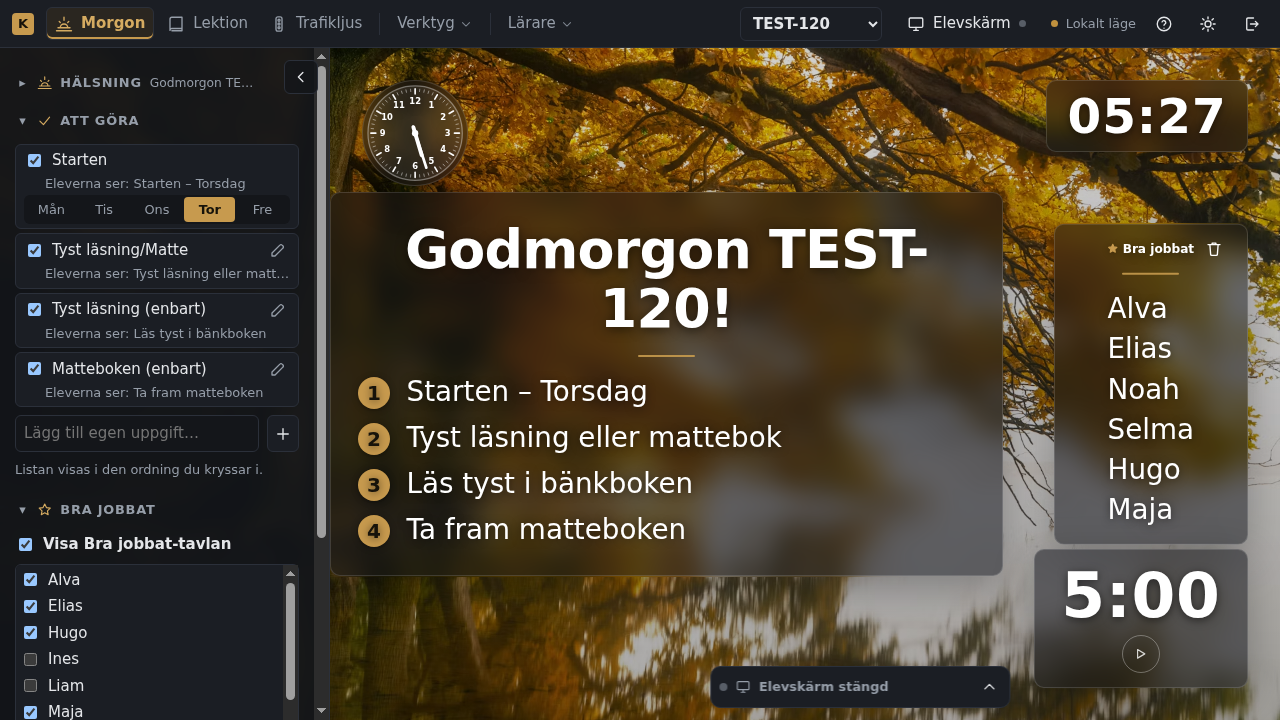
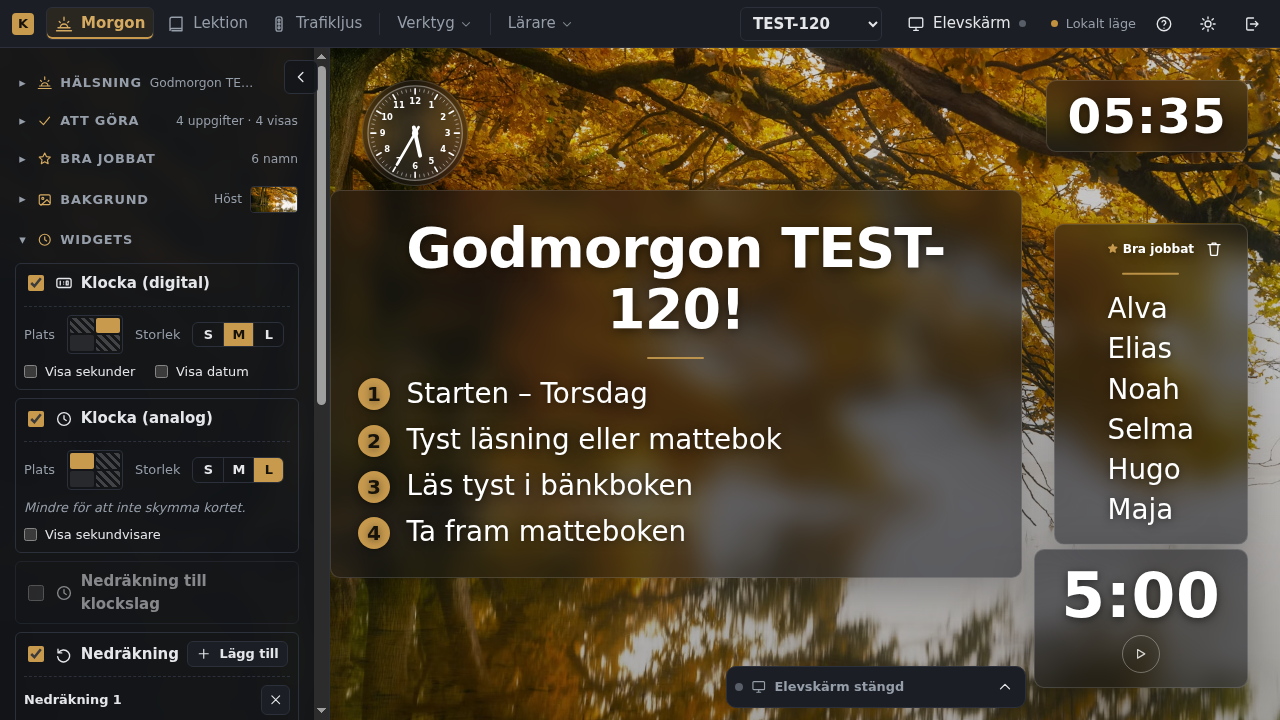
issue #120: kortet och Bra jobbat är hårda hinder för dockans flytt
En kandidatplats (vänster om widgeten / ovanför den) som skymmer kortet eller
Bra jobbat-tavlan ryms inte. Ryms ingen står dockan kvar och widget-panelen
visar hinten — hellre skymd widget i lärarvyn än skymt kort. data-dock-soft →
data-dock-block. Nya efter-bilder 1280/1920, utfälld och hopfälld.

diff --git a/js/lib/dock.js b/js/lib/dock.js
@@ -4,19 +4,19 @@
  * Elevskärmspanelen (js/ui/student-panel.js) ligger fast nere till höger i
  * lärarvyn — ovanpå allt. Element som inte får skymmas (Morgonskärmens
  * hörnwidgets) märks med `data-dock-avoid="<id>"`; skymmer dockan något av
- * dem viker den undan — åt vänster bredvid widgeten eller upp ovanför den,
- * det som skymmer minst av det som märkts `data-dock-soft` (kortet, Bra
- * jobbat-tavlan). Den går aldrig in över `data-dock-wall` (lärarpanelen) och
- * aldrig upp i verktygsraden. Ingenting annat flyttas, så lärarens
- * förhandsvisning och elevskärmen ritar fortfarande exakt samma sak.
+ * dem viker den undan — åt vänster bredvid widgeten eller upp ovanför den.
+ * En sådan plats får aldrig skymma det som märkts `data-dock-block` (kortet,
+ * Bra jobbat-tavlan), gå in över `data-dock-wall` (lärarpanelen) eller upp i
+ * verktygsraden. Ingenting annat flyttas, så lärarens förhandsvisning och
+ * elevskärmen ritar fortfarande exakt samma sak.
  *
- * Ryms dockan ingenstans (liten skärm, widgets även bredvid och ovanför)
- * står den kvar, och de skymda id:na publiceras så att panelen kan säga det
- * (DOCK_COVERED_TEXT).
+ * Ryms dockan ingenstans står den kvar på sin vanliga plats — hellre en
+ * skymd widget i lärarvyn (eleverna ser den fullt) än ett skymt kort — och
+ * de skymda id:na publiceras så att panelen kan säga det (DOCK_COVERED_TEXT).
  *
- *   el.setAttribute(DOCK_AVOID_ATTR, widgetId);  // märk: får inte skymmas
- *   el.setAttribute(DOCK_SOFT_ATTR, "");          // märk: skyms helst inte
- *   el.setAttribute(DOCK_WALL_ATTR, "");          // märk: dockan går aldrig in över (vänster gräns)
+ *   el.setAttribute(DOCK_AVOID_ATTR, widgetId);  // märk: dockan viker undan
+ *   el.setAttribute(DOCK_BLOCK_ATTR, "");         // märk: dockan flyttar aldrig in över
+ *   el.setAttribute(DOCK_WALL_ATTR, "");          // märk: vänster gräns (lärarpanelen)
  *   requestDockLayout();                          // efter varje flytt/ändring
  *   const off = watchDockCovered((ids) => …);     // skymda just nu
  *
@@ -24,7 +24,7 @@
  */
 
 export const DOCK_AVOID_ATTR = "data-dock-avoid";
-export const DOCK_SOFT_ATTR = "data-dock-soft";
+export const DOCK_BLOCK_ATTR = "data-dock-block";
 export const DOCK_WALL_ATTR = "data-dock-wall";
 export const DOCK_COVERED_TEXT = "Delvis dold av Elevskärm-panelen här — syns fullt på elevskärmen.";
 
@@ -60,16 +60,13 @@ export function watchDockCovered(cb) {
 }
 
 const overlaps = (a, b) => a.left < b.right && b.left < a.right && a.top < b.bottom && b.top < a.bottom;
-const area = (a, b) =>
-  Math.max(0, Math.min(a.right, b.right) - Math.max(a.left, b.left)) *
-  Math.max(0, Math.min(a.bottom, b.bottom) - Math.max(a.top, b.top));
 
 /**
  * Var dockan ska stå för att inte skymma något i `avoid`.
  *
  *   dock   = dockans rektangel på sin vanliga plats (nere till höger)
- *   avoid  = rektanglar som INTE får skymmas (widgets)
- *   soft   = rektanglar som helst inte skyms (kortet, Bra jobbat)
+ *   avoid  = rektanglar dockan viker undan för (widgets)
+ *   block  = rektanglar en flyttad docka aldrig får skymma (kortet, Bra jobbat)
  *   minTop / minLeft = gränser dockan inte går förbi (verktygsraden, lärarpanelen)
  *   gap    = luft mellan dockan och det den viker undan för
  *
@@ -77,29 +74,32 @@ const area = (a, b) =>
  *   vänster, dy ≤ 0 = upp); covered = index i `avoid` som dockan skymmer där
  *   den hamnar (tom när den kunde vika undan).
  *
- * Skymmer dockan inget står den kvar — då ändras ingenting. Annars prövas två
- * platser: rakt UPP ovanför widgetarna och åt VÄNSTER bredvid dem (stegvis
- * förbi varje widget den skulle krocka med). Den som skymmer minst av `soft`
- * vinner; lika → vänster, så dockan står kvar längs nederkanten. Ryms ingen
- * står den kvar och de skymda rapporteras.
+ * Skymmer dockan ingen widget står den kvar — då ändras ingenting (även om
+ * den på sin vanliga plats ligger över kortet/tavlan, som förut). Annars
+ * prövas två platser: åt VÄNSTER bredvid widgetarna och rakt UPP ovanför dem
+ * (stegvis förbi varje widget den skulle krocka med). En plats som skymmer
+ * något i `block` eller går förbi gränserna ryms inte. Vänster vinner om båda
+ * ryms (dockan står kvar längs nederkanten); ryms ingen står den kvar och de
+ * skymda rapporteras.
  */
-export function dockPlace(dock, { avoid = [], soft = [], minTop = 0, minLeft = 0, gap = 8 } = {}) {
+export function dockPlace(dock, { avoid = [], block = [], minTop = 0, minLeft = 0, gap = 8 } = {}) {
   const hard = avoid.filter(Boolean);
-  const pref = soft.filter(Boolean);
+  const walls = block.filter(Boolean);
   const hits = (r) => hard.map((a, i) => (overlaps(r, a) ? i : -1)).filter((i) => i >= 0);
   const at = (dx, dy) => ({ left: dock.left + dx, right: dock.right + dx, top: dock.top + dy, bottom: dock.bottom + dy });
 
   const first = hits(dock);
   if (!first.length) return { dx: 0, dy: 0, covered: [] };
 
-  // Flytta längs en axel tills inget krockar (eller gränsen nås). → px eller null
+  // Flytta längs en axel tills ingen widget krockar. → px, eller null om
+  // platsen skymmer kortet/tavlan eller går förbi gränserna.
   function slide(axis) {
     let d = 0;
     for (let step = 0; step <= hard.length; step++) {
       const r = axis === "x" ? at(d, 0) : at(0, d);
       if (r.top < minTop || r.left < minLeft) return null;
       const h = hits(r);
-      if (!h.length) return d;
+      if (!h.length) return walls.some((w) => overlaps(r, w)) ? null : d;
       d = axis === "x"
         ? Math.min(...h.map((i) => hard[i].left)) - gap - dock.right
         : Math.min(...h.map((i) => hard[i].top)) - gap - dock.bottom;
@@ -107,14 +107,9 @@ export function dockPlace(dock, { avoid = [], soft = [], minTop = 0, minLeft = 0
     return null;
   }
 
-  const options = [];
   const dx = slide("x");
-  if (dx != null) options.push({ dx, dy: 0 });
+  if (dx != null) return { dx, dy: 0, covered: [] };
   const dy = slide("y");
-  if (dy != null) options.push({ dx: 0, dy });
-  if (!options.length) return { dx: 0, dy: 0, covered: first };
-
-  const cost = ({ dx, dy }) => pref.reduce((sum, s) => sum + area(at(dx, dy), s), 0);
-  const best = options.reduce((a, b) => (cost(b) < cost(a) ? b : a));
-  return { ...best, covered: [] };
+  if (dy != null) return { dx: 0, dy, covered: [] };
+  return { dx: 0, dy: 0, covered: first };
 }

diff --git a/js/modes/morgon.js b/js/modes/morgon.js
@@ -27,7 +27,7 @@ import {
 import { openBgPicker, closeBgPicker } from "../ui/bg-picker.js";
 import { collapsibleHTML, mountCollapsibles } from "../ui/collapsible.js";
 import { createCornerLayer, createPlacementSharer, watchStudentPlacement } from "../widgets/host.js";
-import { watchDockCovered, DOCK_SOFT_ATTR, DOCK_WALL_ATTR } from "../lib/dock.js";
+import { watchDockCovered, DOCK_BLOCK_ATTR, DOCK_WALL_ATTR } from "../lib/dock.js";
 import { isPreviewWindow } from "../sync.js";
 import { mountWidgetSettings, widgetsSummary } from "../widgets/settings-ui.js";
 import { normalizeMorningWidgets } from "../widgets/registry.js";
@@ -96,11 +96,11 @@ export default {
       onPlaced: (placed) => { widgetsUI?.setPlacement(placed); sharePlacement?.(placed); },
     });
     this._corners = corners;
-    // Elevskärm-dockan viker undan för widgetarna (host.js) — helst inte in
-    // över kortet eller Bra jobbat-tavlan, aldrig över lärarpanelen (#120,
-    // js/lib/dock.js).
+    // Elevskärm-dockan viker undan för widgetarna (host.js) — men aldrig in
+    // över kortet, Bra jobbat-tavlan eller lärarpanelen (#120, js/lib/dock.js).
+    // Deras storleksändringar når dockan via hörnens layout (ResizeObserver ovan).
     if (isTeacher) {
-      for (const x of [$(".morgon__card"), board.el]) x?.setAttribute(DOCK_SOFT_ATTR, "");
+      for (const x of [$(".morgon__card"), board.el]) x?.setAttribute(DOCK_BLOCK_ATTR, "");
       $(".morgon__panel")?.setAttribute(DOCK_WALL_ATTR, "");
     }
     // Kortets och tavlans storlek ändras med innehållet → lägg ut hörnen igen.

diff --git a/js/ui/student-panel.js b/js/ui/student-panel.js
@@ -21,7 +21,7 @@ import { icon } from "../lib/icons.js";
 import { DEFAULT_MODE_ID, isStudentMode, getMode } from "../modes/registry.js";
 import { isExactlyPresented, presentedLabel } from "../lib/present.js";
 import { SINGLESCREEN_RETURN_KEY } from "../sync.js";
-import { DOCK_AVOID_ATTR, DOCK_SOFT_ATTR, DOCK_WALL_ATTR, dockPlace, onDockLayoutRequest, publishDockCovered } from "../lib/dock.js";
+import { DOCK_AVOID_ATTR, DOCK_BLOCK_ATTR, DOCK_WALL_ATTR, dockPlace, onDockLayoutRequest, publishDockCovered } from "../lib/dock.js";
 
 const COLLAPSED_KEY = "classroom:ui:studentPanelCollapsed";
 const RETURN_KEY = SINGLESCREEN_RETURN_KEY; // sessionStorage: lärarens läge att återvända till
@@ -205,7 +205,7 @@ export function initStudentPanel({ store, openStudentWindow, present }) {
     const walls = rects(`[${DOCK_WALL_ATTR}]`).map((x) => x.getBoundingClientRect()).filter((w) => w.right <= dock.left);
     const { dx, dy, covered } = dockPlace(dock, {
       avoid: avoidEls.map((x) => x.getBoundingClientRect()),
-      soft: rects(`[${DOCK_SOFT_ATTR}]`).map((x) => x.getBoundingClientRect()),
+      block: rects(`[${DOCK_BLOCK_ATTR}]`).map((x) => x.getBoundingClientRect()),
       minTop: (topbar && visible(topbar) ? topbar.getBoundingClientRect().bottom : 0) + 8,
       minLeft: Math.max(0, ...walls.map((w) => w.right)) + 8,
       gap: 8,

diff --git a/docs/screenshots/issue-120/README.md b/docs/screenshots/issue-120/README.md
@@ -5,16 +5,21 @@ klocka (L) uppe till vänster, digital klocka (M) uppe till höger, Nedräkning
 5:00 (L) nere till höger. Bra jobbat med sex namn. "Före" är epic-grenen
 (`f8839d3`), "efter" är denna gren, serverade från samma adress.
 
+Regel (efter leadens granskning): dockan flyttas bara till en plats som
+varken skymmer kortet eller Bra jobbat-tavlan. Ryms ingen sådan plats står den
+kvar och widget-panelen visar "Delvis dold av Elevskärm-panelen här — syns
+fullt på elevskärmen." — hellre skymd widget i lärarvyn än skymt kort.
+
 | Fil | Visar |
 |---|---|
-| `fore-larare-1920-morkt.png` / `-ljust.png` | Före: utfälld docka ligger över nedräkningen (och nedre delen av Bra jobbat) |
-| `efter-larare-1920-morkt.png` / `-ljust.png` | Efter: dockan står till vänster om nedräkningen; widget, kort och Bra jobbat syns |
-| `fore-larare-1280-morkt.png` / `-ljust.png` | Före: dockan täcker nedräkningen helt och halva Bra jobbat |
-| `efter-larare-1280-morkt.png` / `-ljust.png` | Efter: nedräkning och Bra jobbat syns; dockan täcker i stället kortets högra kant (det dockan själv förhandsvisar) |
+| `fore-larare-1920-morkt.png` / `-ljust.png` | Före: utfälld docka ligger över nedräkningen |
+| `efter-larare-1920-morkt.png` / `-ljust.png` | Efter, utfälld: till vänster skulle den skymma kortets hörn, uppåt Bra jobbat → står kvar; panelen visar hinten under Nedräkning 1 |
+| `efter-larare-1920-morkt-hopfalld.png` | Efter, hopfälld: längs nederkanten till vänster om nedräkningen; startknappen går att trycka på |
+| `fore-larare-1280-morkt.png` / `-ljust.png` | Före: dockan täcker nedräkningen helt |
+| `efter-larare-1280-morkt.png` / `-ljust.png` | Efter, utfälld: ingen plats utan att skymma kortet/Bra jobbat → står kvar + hinten |
 | `fore-larare-1280-morkt-hopfalld.png` | Före: hopfälld docka över nedräkningens startknapp |
-| `efter-larare-1280-morkt-hopfalld.png` | Efter: hopfälld docka längs nederkanten bredvid nedräkningen |
-| `efter-larare-1280-morkt-tre-horn.png` | Widgets i tre hörn: dockan hittar luckan mellan de två nedre widgetarna |
-| `efter-larare-1024-ryms-inte-hint.png` | 1024 px: dockan ryms ingenstans, står kvar, och panelen säger "Delvis dold av Elevskärm-panelen här — syns fullt på elevskärmen." |
+| `efter-larare-1280-morkt-hopfalld.png` | Efter, hopfälld: bredvid nedräkningen, fri från kortet (kontrollerat under kortets pendling) |
+| `efter-larare-1024-ryms-inte-hint.png` | 1024 px, widgets i tre hörn: står kvar + hinten |
 
 Elevskärmen är oförändrad: den har ingen docka och inga märkta element
 (kontrollerat i `#/elev/morgon`). I Lektion och andra lägen står dockan

diff --git a/js/widgets/README.md b/js/widgets/README.md
@@ -253,17 +253,18 @@ I ett upptaget hörn går det att välja en widget — de två byter plats.
 
 I lärarvyn ligger Elevskärm-panelen (`js/ui/student-panel.js`) fast nere
 till höger. Hörnlagret märker varje widget med `data-dock-avoid="<id>"`
-(bara i lärarvyn) och anropar `requestDockLayout()` efter varje layout;
-Morgonskärmen märker kortet och Bra jobbat-tavlan `data-dock-soft` och
-lärarpanelen `data-dock-wall`. Skymmer dockan en widget flyttas den
-(`dockPlace`, `js/lib/dock.js`) åt vänster bredvid widgeten eller upp ovanför
-den — det som skymmer minst av kortet och tavlan, lika → vänster. Den går
-aldrig in över lärarpanelen eller upp i verktygsraden. Widgetarna flyttas
-aldrig för dockans skull: elevskärmen har ingen docka och ritar samma sak.
-Ryms dockan ingenstans står den kvar och panelen skriver under widgeten
-"Delvis dold av Elevskärm-panelen här — syns fullt på elevskärmen."
-(`watchDockCovered` → `ui.setDockCovered(ids)`). Utan märkta element (alla
-andra lägen) står dockan exakt som förut.
+(bara i lärarvyn) och anropar `requestDockLayout()` efter varje layout —
+också när kortet eller tavlan ändrar storlek (samma ResizeObserver som
+hörnen). Morgonskärmen märker kortet och Bra jobbat-tavlan `data-dock-block`
+och lärarpanelen `data-dock-wall`. Skymmer dockan en widget flyttas den
+(`dockPlace`, `js/lib/dock.js`) åt vänster bredvid widgeten, annars upp
+ovanför den — men en plats som skymmer kortet eller tavlan, går in över
+lärarpanelen eller upp i verktygsraden ryms inte. Ryms ingen står dockan
+kvar och panelen skriver under widgeten "Delvis dold av Elevskärm-panelen
+här — syns fullt på elevskärmen." (`watchDockCovered` →
+`ui.setDockCovered(ids)`): hellre en skymd widget i lärarvyn än ett skymt
+kort. Widgetarna flyttas aldrig för dockans skull, så elevskärmen ritar
+samma sak. Utan märkta widgets (alla andra lägen) står dockan exakt som förut.
 
 ## Test
 

diff --git a/docs/WIDGETS.md b/docs/WIDGETS.md
@@ -25,10 +25,10 @@ Utan ikryssade widgets ser tavlan ut precis som förut.
   att inte skymma kortet."* Bara om inte ens S ryms flyttas den till
   närmaste lediga hörn.
 - **Elevskärm-panelen** nere till höger flyttar sig åt sidan eller uppåt så
-  att en widget i hörnet nere till höger syns hos dig. Får den inte plats
-  (litet fönster) står panelen kvar och det står *"Delvis dold av
-  Elevskärm-panelen här — syns fullt på elevskärmen."* under widgeten. Fäll
-  ihop panelen så syns widgeten. Eleverna ser aldrig panelen.
+  att en widget i hörnet nere till höger syns hos dig, men aldrig in över
+  kortet eller Bra jobbat. Får den inte plats står panelen kvar och det står
+  *"Delvis dold av Elevskärm-panelen här — syns fullt på elevskärmen."* under
+  widgeten. Fäll ihop panelen så syns widgeten. Eleverna ser aldrig panelen.
 
 ## Klockor
 
